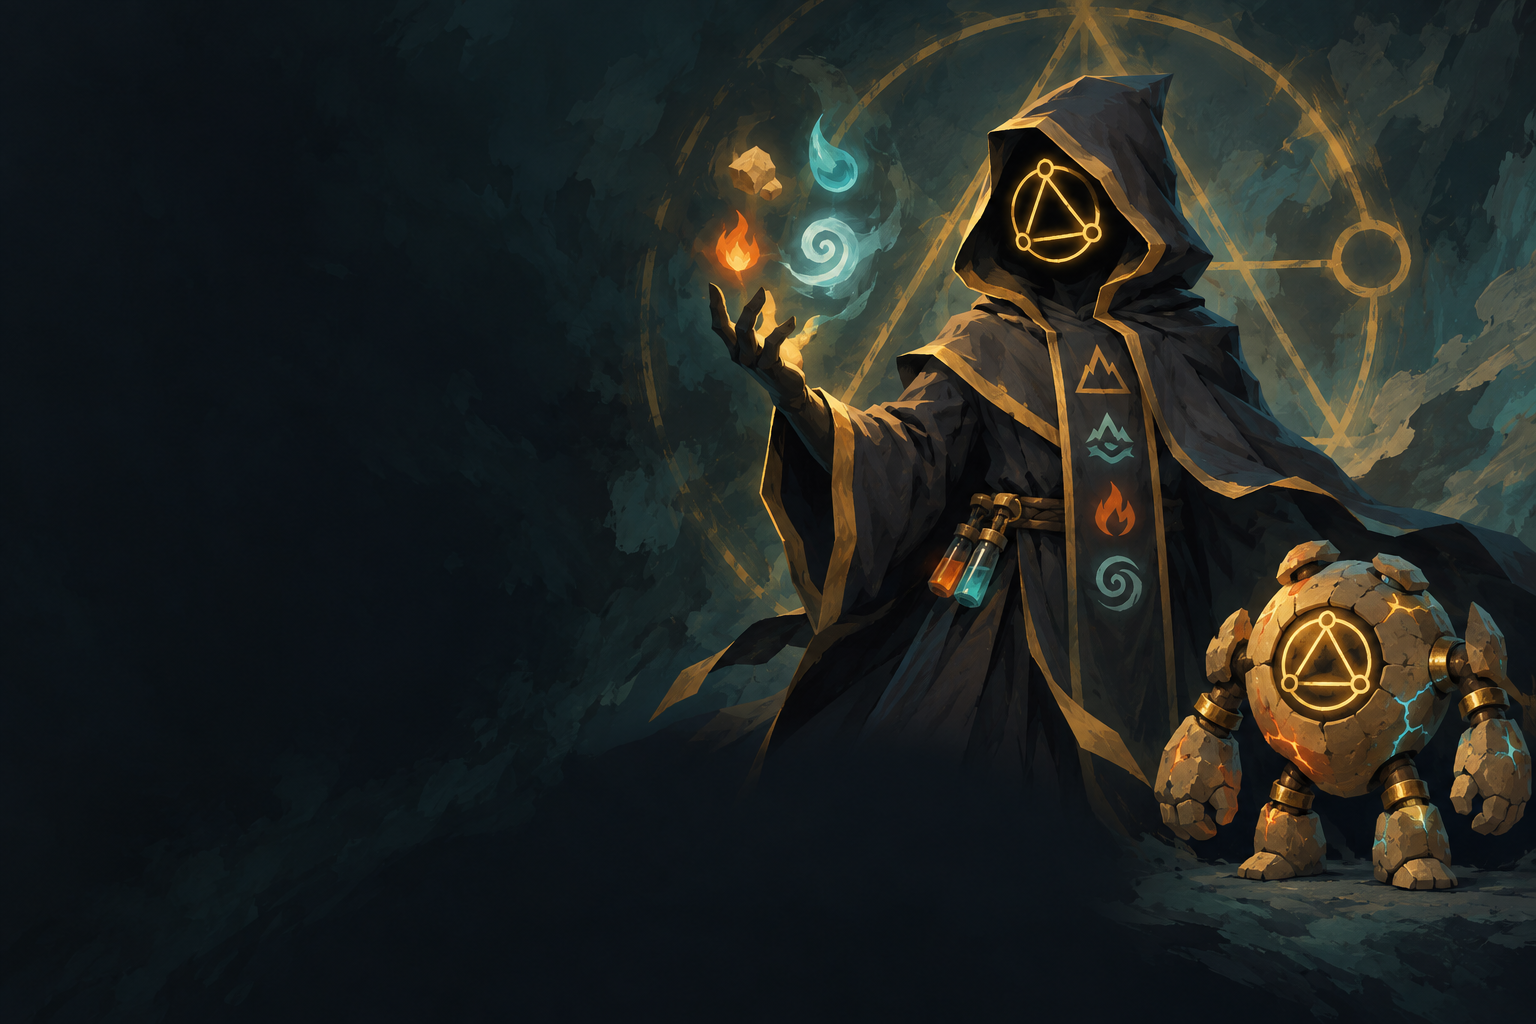
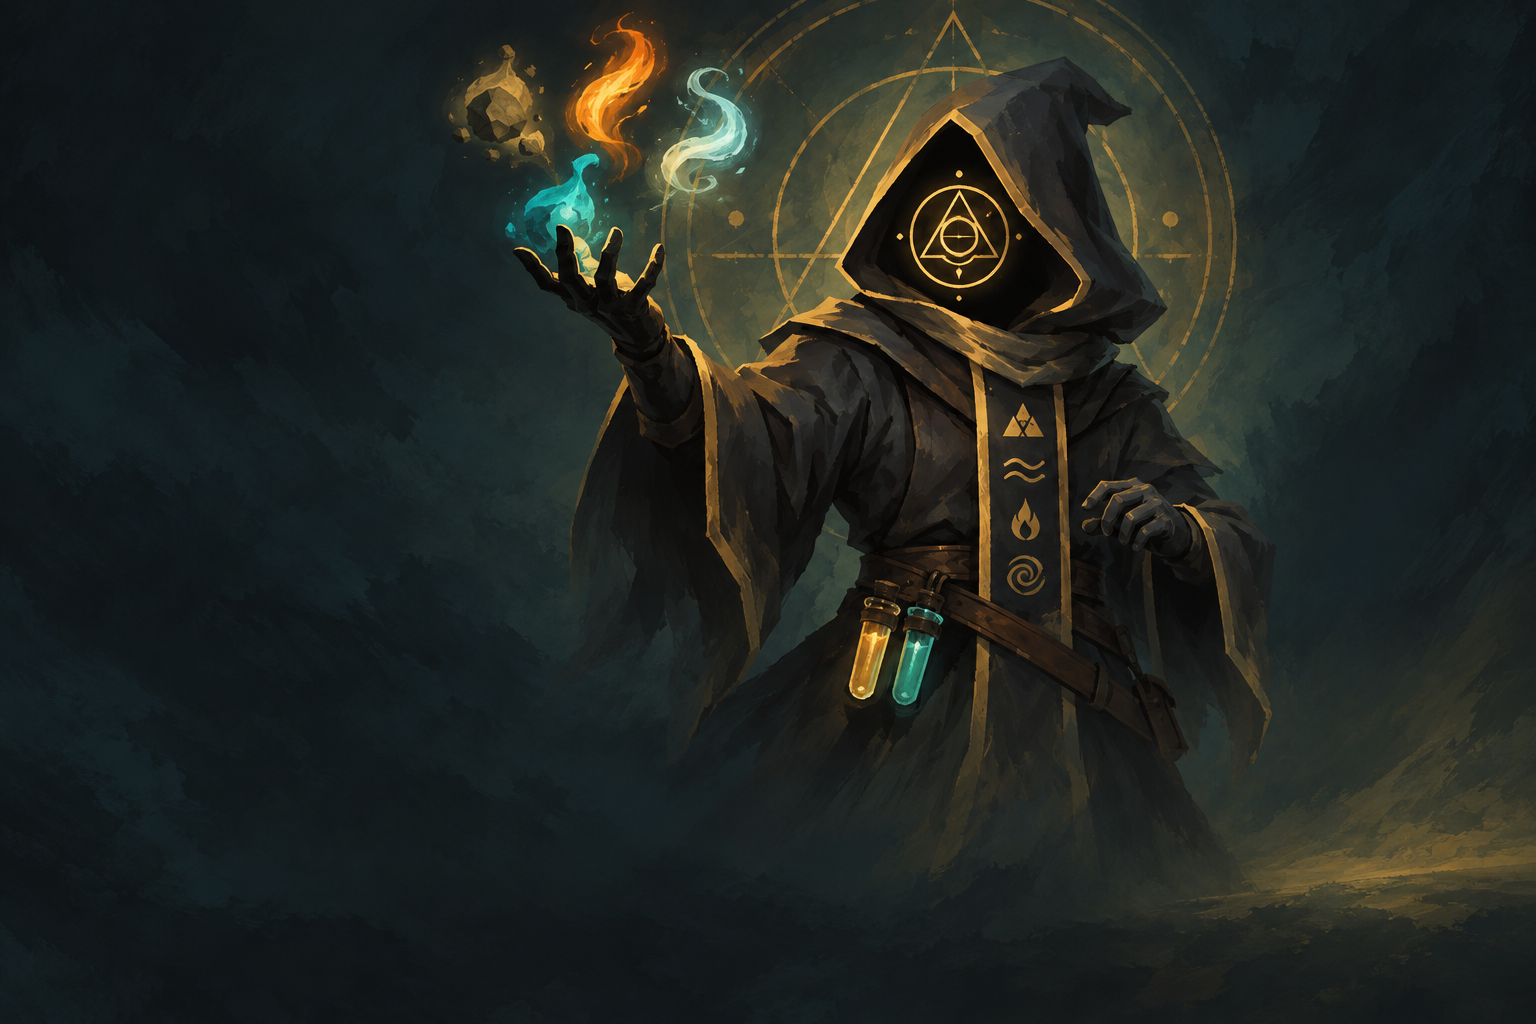
キャラ選択の背景：ゴーレムを戦闘と同じ絵で合成

diff --git a/scripts/select-bg.py b/scripts/select-bg.py
@@ -14,11 +14,10 @@ import sys
 import time
 from pathlib import Path
 
-from PIL import Image
+from PIL import Image, ImageDraw, ImageFilter
 
 ROOT = Path(__file__).resolve().parent.parent
-REFS = [ROOT / ".research/sts2-ref/lineup_small.png", ROOT / "assets/concepts/alchemist-character-v3.png",
-        ROOT / "assets/concepts/homunculus-v1.png"]
+REFS = [ROOT / ".research/sts2-ref/lineup_small.png", ROOT / "assets/concepts/alchemist-character-v3.png"]
 RAW = ROOT / "assets/concepts/select-bg.png"
 OUT = ROOT / "assets/art/character/select_bg.png"
 
@@ -38,15 +37,17 @@ brief = (
     "It is the character select screen background for the Alchemist, a playable character in a Slay the Spire 2 mod. "
     "The first attached image is the base game's cast (visual language only, do not copy). The second is the "
     "Alchemist: draw them exactly like it (hooded charcoal robe with gold trim, a glowing gold alchemical sigil as the "
-    "face, a vertical band of the four element marks, belt with two vials). The third is their small stone golem "
-    "companion: include it clearly, standing beside the Alchemist.\n"
+    "face, a vertical band of the four element marks, belt with two vials). Draw ONLY the Alchemist: no golem, no "
+    "companion, no creature (the golem is added afterwards).\n"
     "Background: SIMPLE, like the base game's select screens: no room, no furniture, no architecture, no props. Only "
     "a dark charcoal-to-deep-teal backdrop with soft painterly brush texture and a large faint gold transmutation "
     "circle glowing behind the figures, plus four small wisps of the element colours (ochre earth, teal water, orange "
     "fire, pale cyan air) near the Alchemist's raised hand.\n"
     "Composition (the game's UI covers parts of the screen, keep them plain): the Alchemist stands large in the right "
-    "half, three-quarter view, one hand raised, the hood's top near the upper edge. The golem stands at the far right "
-    "next to the Alchemist, with its whole body visible and its feet ABOVE the bottom quarter. The left 40% and the "
+    "half, centred at about 60% of the width (the figure spans roughly 45% to 75%), three-quarter view, one hand "
+    "raised towards the upper left, the hood's top near the upper edge. The area from 76% to 100% of the width in the "
+    "lower 60% of the height is EMPTY plain backdrop with a dim gold glow on the floor (a companion is pasted there "
+    "later). The left 40% and the "
     "bottom-centre band (the lowest 30% between 25% and 70% of the width, where the character buttons and the "
     "ascension selector sit) contain only the plain backdrop.\n"
     "Style: Slay the Spire 2 painterly look, minimal thin line work, large flat colour masses with soft brush "
@@ -68,5 +69,28 @@ image = Image.open(RAW).convert("RGB")
 # Cover 1920x1080: scale to the width, crop the extra height mostly from the bottom (keeps the hood's tip).
 scaled = image.resize((1920, round(image.height * 1920 / image.width)), Image.LANCZOS)
 top = max(0, (scaled.height - 1080) * 3 // 10)
-scaled.crop((0, top, 1920, top + 1080)).save(OUT)
+picture = scaled.crop((0, top, 1920, top + 1080)).convert("RGBA")
+# The golem is pasted from the combat sprite: a generated one never matched it (user, 2026-09-30: "the golem is
+# different"). The game shows this picture 4% larger on each side (AlchemistSelectBg.VisibleRect), so a picture
+# pixel p lands at p*1.08 - 4% of the screen. Screen box: x 1390-1740, feet at y 1040 -- right of the alchemist and
+# the ascension panel (ends x 1277), left of the confirm button (x 1760-).
+golem = Image.open(ROOT / "assets/art/pets/golem.png").convert("RGBA")
+px = golem.load()
+for y in range(golem.height * 3 // 4, golem.height):  # the concept's grey floor shadow (opaque neutral grey) -> soft dark
+    for x in range(golem.width):
+        r, g, b, a = px[x, y]
+        if a and max(r, g, b) - min(r, g, b) < 8 and 75 < r < 135:
+            px[x, y] = (0, 0, 0, 110)
+alpha = golem.getchannel("A")
+golem = Image.eval(golem.convert("RGB"), lambda v: int(v * 0.75)).convert("RGBA")  # the painting is darker
+golem.putalpha(alpha)
+gw = round(350 / 1.08)
+golem = golem.resize((gw, round(golem.height * gw / golem.width)), Image.LANCZOS)
+gx, feet = round((1390 + 0.04 * 1920) / 1.08), round((1040 + 0.04 * 1080) / 1.08)
+shadow = Image.new("RGBA", picture.size, (0, 0, 0, 0))
+ImageDraw.Draw(shadow).ellipse((gx + gw * 0.08, feet - 26, gx + gw * 0.92, feet + 14), fill=(0, 0, 0, 150))
+picture.alpha_composite(shadow.filter(ImageFilter.GaussianBlur(10)))
+sole = golem.getchannel("A").point(lambda a: 255 if a > 200 else 0).getbbox()[3]  # feet, not the shadow below
+picture.alpha_composite(golem, (gx, feet - sole))
+picture.convert("RGB").save(OUT)
 print(f"{time.time() - started:.0f}秒: {OUT.relative_to(ROOT)}")

diff --git a/docs/session-log.md b/docs/session-log.md
@@ -24,6 +24,7 @@
   - 肖像は顔のアップを彩度の高い青緑の単色に（`scripts/make-character-art.py`、バニラの並びと比較済み）。
   - 背景：`scripts/select-bg.py`の指示を変更（部屋・小物なし、暗い背景と錬成陣だけ、ゴーレムは右端）。UIの位置はゲームの`character_select_screen.tscn`から読み、docstringに記録。確認ボタンがゴーレムの右の拳に少し掛かる。
   - スモーク381件PASS、ゲームへ反映済み（旧版`artifacts/backups/20260930-230733-260`）。実画面は未確認。
+  - ユーザー「キャラ選択のゴーレムが違う」→ 生成に描かせたゴーレムは別物（真鍮の関節の丸い体）だった。背景は錬金術師だけで生成し、戦闘と同じ`assets/art/pets/golem.png`を`select-bg.py`で合成する形に変更（暗めに補正、元絵の灰色の床影は半透明の影に、足元を床に合わせる。画面上でx 1390〜1740・足元y 1040）。錬金術師は中央寄り（60%）になり、下半身はアセンション欄の後ろに入る。
 - **ストライク・防御の絵を作り直し**（2026-09-30、ユーザー：「ストライクは赤、防御は青を背景にしないと他キャラと整合が取れない。見づらい」）：バニラ5キャラのストライク・防御をpckから取り出して比較（赤地に武器1つの大写し／青緑地に盾と白い矢印が弾かれる。背景は単色と筆跡のみ）。その型で4案を1回生成（`artifacts/art-gen/basics/`、参考画像にバニラの比較シートを渡した。リポジトリには入れない）→ユーザーが**ストライクB（籠手と真鍮の乳棒）・防御A（錬成陣の丸盾）**を選択、取り込み・ゲームへ反映済み（旧版`artifacts/backups/20260930-224745-893`）。実画面は未確認。他のカード絵はまだ紫の背景で描き込みが多い。同じ理由で直すかは未確認。
 - **キャラ選択画面の背景**（2026-09-30、ユーザー依頼）：`scripts/select-bg.py`で1回生成（工房に立つ錬金術師とゴーレム、四相の光、左側は暗め）→`assets/art/character/select_bg.png`（1920×1080）。ゲームは全キャラの背景シーンをパスで先読みするため、パスはアイアンクラッドのまま、画面に置かれた直後に全画面の1枚絵へ差し替え（`AlchemistSelectBg`、`SelectCharacter`・ランダム選択・マルチの読み込み画面の後置き）。スモーク379件PASS、ゲームへ反映済み（旧版`artifacts/backups/20260930-013408-426`）。実画面は未確認（バニラの背景にある光の粒子や動きはない）。
 - ユーザー報告「はみ出してる」→ 背景の入れ物（`AnimatedBg`）は画面より大きく（1920×1080で2560×1200、1.1倍、マウスで動く）、入れ物いっぱいに広げた絵が拡大されて錬金術師が右にはみ出していた。入れ物の変形から画面に映る範囲を計算し、4%の余白を付けてそこに置くよう修正（`AlchemistSelectBg.VisibleRect`）。あわせて、TextureRectの大きさを`IgnoreSize`の後に設定（先だと元画像の1920×1080未満に縮まない）。スモーク380件PASS、反映済み（旧版`artifacts/backups/20260930-015142-417`）。実画面は未確認。
